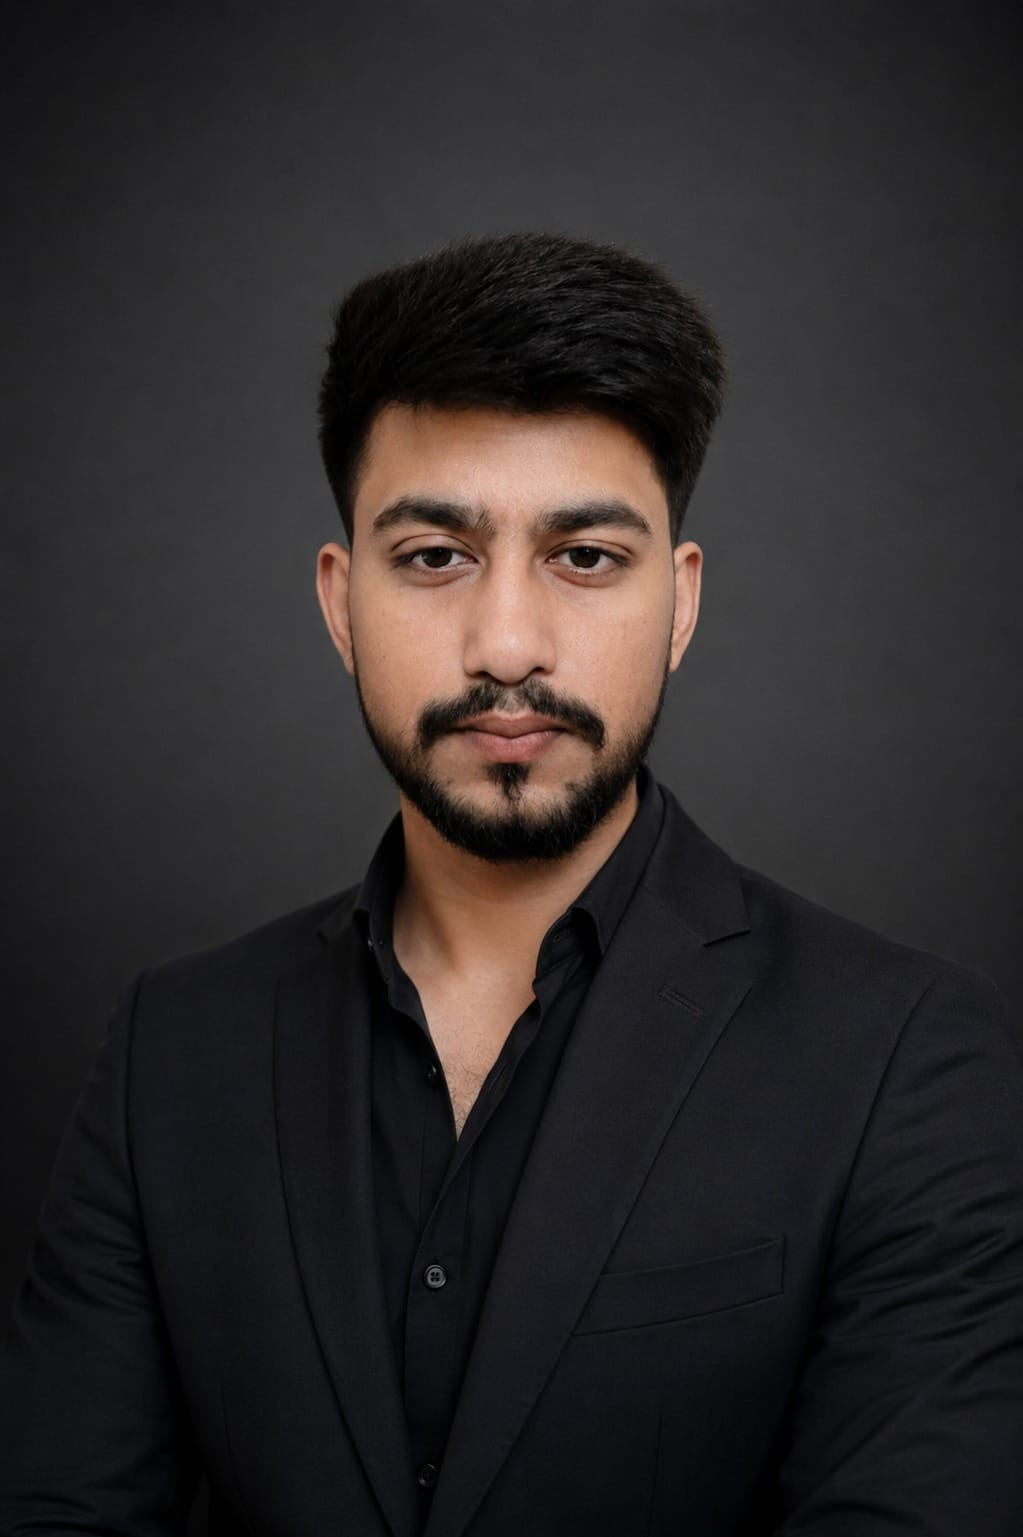
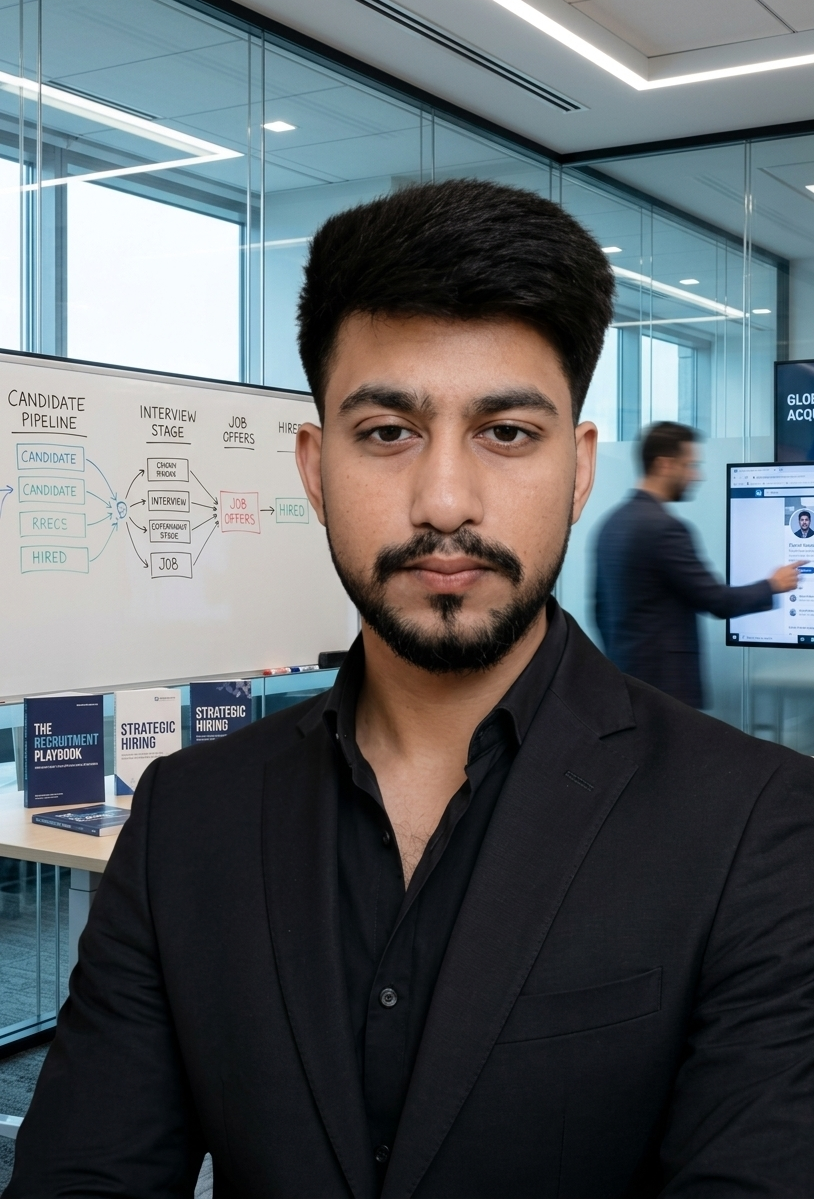
Team page + checkpoint before session signing

diff --git a/app/team/page.tsx b/app/team/page.tsx
@@ -1,11 +1,11 @@
 export default function TeamPage() {
-  const team = [
-    { name: 'Adnan Riaz', role: 'Founder', desc: 'My name is Adnan Riaz. I completed my graduation from the University of Karachi through Government Commerce and Arts College. After that, I pursued an M.A. in Economics, but due to the COVID-19 pandemic, I had to discontinue my studies for some time.\n\nLater, I continued my learning through self-study and explored different subjects, including jurisprudence, pharmacopoeia, and other areas of interest. In terms of professional experience, I have worked across various departments, including Finance, Operations, and Human Resources.\n\nThis has given me a broad understanding of how different departments function and work together. However, my strongest preference is Accounting. I genuinely enjoy accounting and feel that it is the field where I can perform at my best.\n\nI have a strong interest in accounting, and I would be very happy to build my career and contribute professionally in an accounting role.', img: '/riaz.png' },
-    { name: 'Mubashir Ali', role: 'Chief Of Executive', desc: 'As CEO of RemoteHirring, I lead our mission to revolutionize how global talent connects with top-tier opportunities.\n\nMy journey is rooted in technical execution—transitioning from a background in technology education, complex data analytics (using Python and Power BI), and software architecture into strategic leadership. Today, I combine that technical foundation with overarching business strategy.\n\nSpearheading RemoteHirring’s go-to-market execution, client acquisition, and scalable platform operations. Looking ahead, my focus is on capturing new opportunities in the remote work sector by scaling our global footprint.\n\nIntegrating advanced data-driven matching systems, and establishing RemoteHirring as the definitive ecosystem for the future of decentralized work.', img: '/mubashir.png' },
-    { name: 'Syed Sabtain Ali Rizvi', role: 'Head Of Recruitment', desc: 'I’m a Recruitment Professional and part of the Remote Hiring Team, specializing in connecting talented professionals with the right career opportunities across global and remote markets.\n\nWith a strong understanding of technology and business, I focus on identifying the right talent, understanding client requirements, and building successful long-term professional connections.', img: '/syed.png' },
-    { name: 'Muhammad Faraz', role: 'SEO Specialist', desc: 'Expert in Marketing with a proven track record of driving organic growth, optimizing digital presence, and implementing data-driven strategies.\n\nEnhancing brand visibility and engagement across global markets.', img: '/faraz.png' },
-    { name: 'Ambreen Ashraf', role: 'Legal & Compliance Expert', desc: 'Knows Jurisprudence of Corporate Law, ensuring that RemoteHirring operates under the highest standards of legal integrity.\n\nRegulatory compliance, and ethical business practices across all international markets.', img: '/ambreen.png' },
-    { name: 'Ulishba Arif Malik', role: 'Recruitment Specialist', desc: 'Knows the methodology to recruit, effectively identifying, sourcing, and placing top-tier talent.\n\nEnsuring a seamless and engaging experience for both candidates and clients.', img: '/ulishba.png' }
+    const team = [
+    { name: 'Adnan Riaz', role: 'Founder', desc: `My name is Adnan Riaz. I completed my graduation from the University of Karachi through Government Commerce and Arts College. After that, I pursued an M.A. in Economics, but due to the COVID-19 pandemic, I had to discontinue my studies for some time.\n\nLater, I continued my learning through self-study and explored different subjects, including jurisprudence, pharmacopoeia, and other areas of interest. In terms of professional experience, I have worked across various departments, including Finance, Operations, and Human Resources.\n\nThis has given me a broad understanding of how different departments function and work together. However, my strongest preference is Accounting. I genuinely enjoy accounting and feel that it is the field where I can perform at my best.\n\nI have a strong interest in accounting, and I would be very happy to build my career and contribute professionally in an accounting role.`, img: '/riaz.png' },
+    { name: 'Mubashir Ali', role: 'Chief Of Executive', desc: `As CEO of RemoteHirring, I lead our mission to revolutionize how global talent connects with top-tier opportunities.\n\nMy journey is rooted in technical execution—transitioning from a background in technology education, complex data analytics (using Python and Power BI), and software architecture into strategic leadership. Today, I combine that technical foundation with overarching business strategy.\n\nSpearheading RemoteHirring's go-to-market execution, client acquisition, and scalable platform operations. Looking ahead, my focus is on capturing new opportunities in the remote work sector by scaling our global footprint.\n\nIntegrating advanced data-driven matching systems, and establishing RemoteHirring as the definitive ecosystem for the future of decentralized work.`, img: '/mubashir.png' },
+    { name: 'Syed Sabtain Ali Rizvi', role: 'Head Of Recruitment', desc: `I'm a Recruitment Professional and part of the Remote Hiring Team, specializing in connecting talented professionals with the right career opportunities across global and remote markets.\n\nWith a strong understanding of technology and business, I focus on identifying the right talent, understanding client requirements, and building successful long-term professional connections.`, img: '/syed.png' },
+    { name: 'Muhammad Faraz', role: 'SEO Specialist', desc: `Expert in Marketing with a proven track record of driving organic growth, optimizing digital presence, and implementing data-driven strategies.\n\nEnhancing brand visibility and engagement across global markets.`, img: '/faraz.png' },
+    { name: 'Ambreen Ashraf', role: 'Legal & Compliance Expert', desc: `Knows Jurisprudence of Corporate Law, ensuring that RemoteHirring operates under the highest standards of legal integrity.\n\nRegulatory compliance, and ethical business practices across all international markets.`, img: '/ambreen.png' },
+    { name: 'Ulishba Arif Malik', role: 'Recruitment Specialist', desc: `Knows the methodology to recruit, effectively identifying, sourcing, and placing top-tier talent.\n\nEnsuring a seamless and engaging experience for both candidates and clients.`, img: '/ulishba.png' }
   ]
 
   return (
@@ -18,26 +18,26 @@ export default function TeamPage() {
         </div>
 
         {/* Responsive Grid: 1 Column Mobile, 2 Tablet, 3 Desktop */}
-        <div className="grid grid-cols-1 md:grid-cols-2 lg:grid-cols-3 gap-6 md:gap-8">
+        <div className="grid grid-cols-1 md:grid-cols-2 lg:grid-cols-3 gap-6 md:gap-8 items-stretch">
           {team.map((member, index) => (
-            <div key={index} className="bg-white rounded-2xl overflow-hidden shadow-sm border border-slate-100">
-              {/* FIXED IMAGE BLOCK: No fixed height, lets the photo show fully */}
-              <div className="w-full overflow-hidden">
+            <div key={index} className="bg-white rounded-2xl overflow-hidden shadow-sm border border-slate-100 flex flex-col">
+              {/* FIXED: uniform 4:5 aspect ratio, image centered */}
+              <div className="w-full aspect-[4/5] overflow-hidden bg-slate-100">
                 <img 
                   src={member.img} 
                   alt={member.name} 
-                  className="w-full h-auto" 
+                  className="w-full h-full object-cover object-top" 
                 />
               </div>
               
-              <div className="p-5">
+              <div className="p-5 flex-1 flex flex-col">
                 <h3 className="text-lg font-bold text-[#0f172a] mb-1">{member.name}</h3>
                 <p className="text-blue-600 text-sm font-medium mb-3">{member.role}</p>
                 
                 {/* Keeps the \n\n as separate paragraphs */}
-                <p className="text-slate-600 text-sm leading-relaxed whitespace-pre-line">
-                  {member.desc}
-                </p>
+                <p className={`text-slate-600 text-sm leading-relaxed whitespace-pre-line ${member.desc.length > 200 ? 'text-justify' : ''}`}>
+  {member.desc}
+</p>
               </div>
             </div>
           ))}
